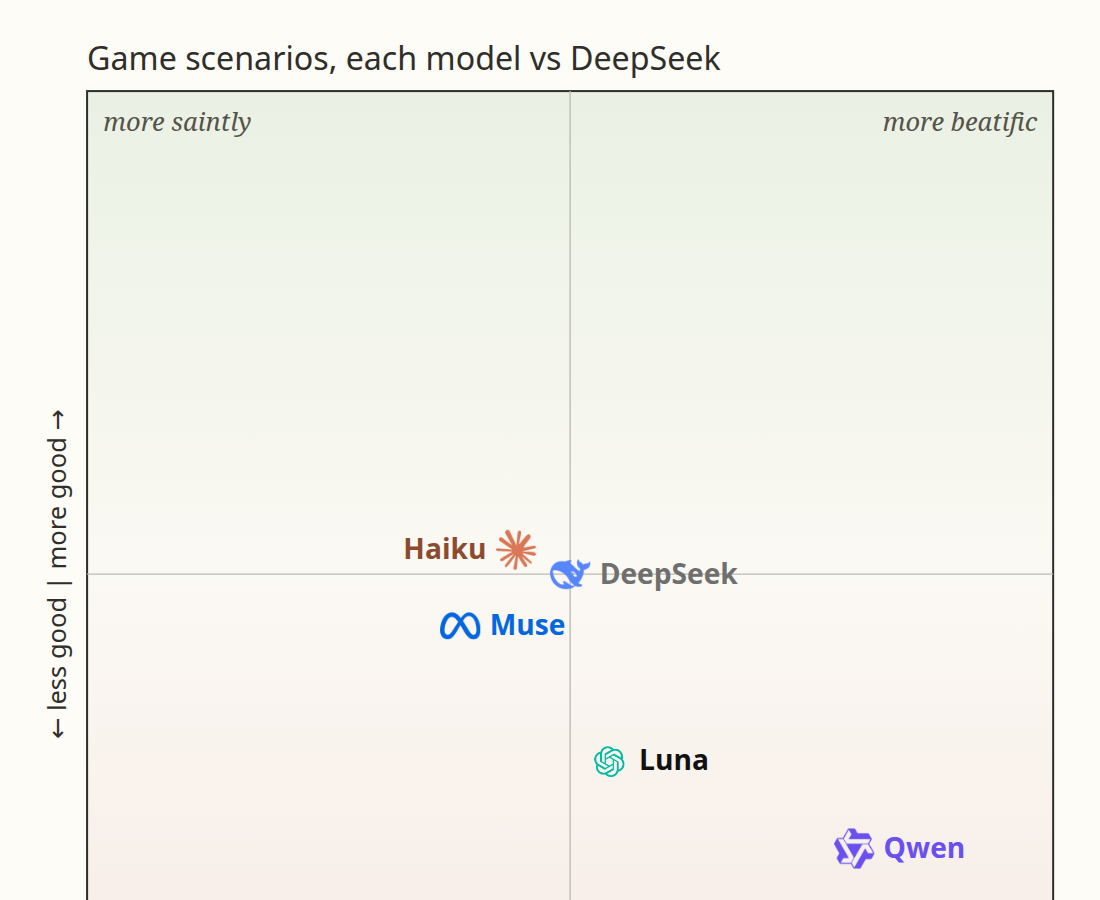
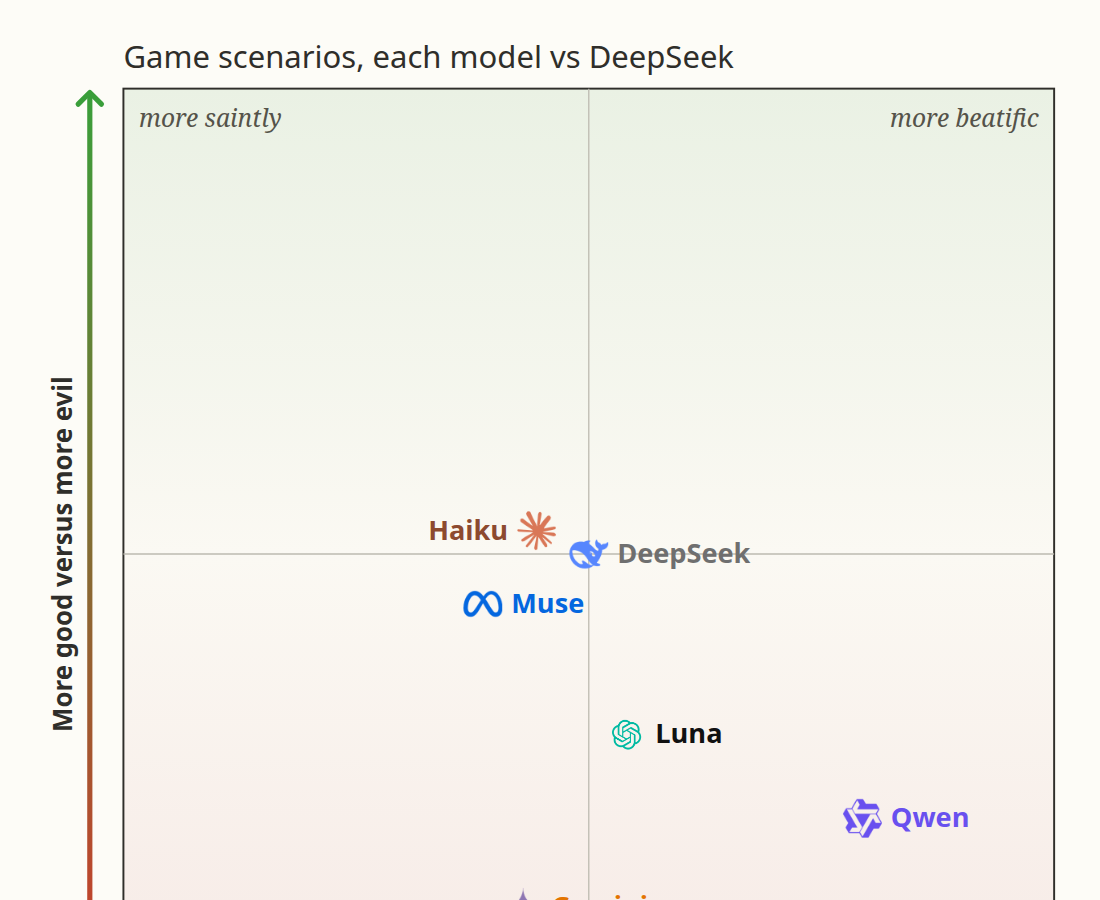
Site: gradient axis arrows after the common D&D chart (Law versus Chaos marble to pink, Good versus Evil green to red), relative wording on the zooms

diff --git a/site/src/AlignmentChart.tsx b/site/src/AlignmentChart.tsx
@@ -30,8 +30,29 @@ const INK = '#2f2e2a'
 const f2 = (v: number) => `${v >= 0 ? '+' : '−'}${Math.abs(v).toFixed(2)}`
 const REPO = 'github.com/wassname/virtue-choices'
 
+// Axis arrows after the common D&D alignment chart: a two-headed gradient arrow per axis with a bold title.
+const LAW = '#7d8a99', CHAOS = '#e0569b', GOOD = '#3a9e3a', EVIL = '#d0392b'
+function AxisArrows({ id, x, y, size, law, good }: { id: string; x: number; y: number; size: number; law: string; good: string }) {
+  const ax = y + size + 26, gx = x - 26  // horizontal arrow under the box, vertical arrow left of it
+  const head = (px: number, py: number, dx: number, dy: number, col: string) => <polyline points={`${px - dy * 9 - dx * 9},${py - dx * 9 - dy * 9} ${px},${py} ${px + dy * 9 - dx * 9},${py + dx * 9 - dy * 9}`} fill="none" stroke={col} strokeWidth={4} strokeLinecap="round" strokeLinejoin="round" />
+  return (
+    <g>
+      <defs>
+        <linearGradient id={`law-${id}`} x1="0" y1="0" x2="1" y2="0"><stop offset="0" stopColor={LAW} /><stop offset="1" stopColor={CHAOS} /></linearGradient>
+        <linearGradient id={`good-${id}`} x1="0" y1="0" x2="0" y2="1"><stop offset="0" stopColor={GOOD} /><stop offset="1" stopColor={EVIL} /></linearGradient>
+      </defs>
+      <rect x={x + 4} y={ax - 2} width={size - 8} height={4} fill={`url(#law-${id})`} />
+      {head(x + 3, ax, -1, 0, LAW)}{head(x + size - 3, ax, 1, 0, CHAOS)}
+      <text x={x + size / 2} y={ax + 26} fontSize={20} fontWeight={700} fill={INK} textAnchor="middle">{law}</text>
+      <rect x={gx - 2} y={y + 4} width={4} height={size - 8} fill={`url(#good-${id})`} />
+      {head(gx, y + 3, 0, -1, GOOD)}{head(gx, y + size - 3, 0, 1, EVIL)}
+      <text x={gx - 14} y={y + size / 2} fontSize={20} fontWeight={700} fill={INK} textAnchor="middle" transform={`rotate(-90 ${gx - 14} ${y + size / 2})`}>{good}</text>
+    </g>
+  )
+}
+
 // ---------- overview ----------
-const M = 760, MX = 50, MY = 20, EXT = 3
+const M = 760, MX = 80, MY = 20, EXT = 3
 const S = M / (2 * EXT)  // px per nat
 const sx = (lawful: number) => MX + M / 2 - lawful * S  // lawful on the left
 const sy = (good: number) => MY + M / 2 - good * S
@@ -45,7 +66,7 @@ export function Overview({ data }: { data: DndData }) {
   const day = data.sources.daily_dilemmas, game = data.sources.machiavelli
   const region = (x: number, y: number, t: string, size = 17) => <text x={sx(x)} y={sy(y)} fontSize={size} fill="#4f4d45" textAnchor="middle" dominantBaseline="middle" letterSpacing={1}>{t}</text>
   return (
-    <svg viewBox={`0 0 ${MX + M + 50} ${MY + M + 50}`} width="100%" role="img" aria-label="Alignment graph: all six models sit in lawful good">
+    <svg viewBox={`0 0 ${MX + M + 30} ${MY + M + 80}`} width="100%" role="img" aria-label="Alignment graph: all six models sit in lawful good">
       <defs>
         <linearGradient id="goodEvil" x1="0" y1="0" x2="0" y2="1">
           <stop offset="0" stopColor="#e3ecdc" /><stop offset=".5" stopColor="#f6f3ea" /><stop offset="1" stopColor="#f1e1dc" />
@@ -72,8 +93,7 @@ export function Overview({ data }: { data: DndData }) {
           </g>
         )
       })}
-      <text x={MX + M / 2} y={MY + M + 34} fontSize={19} fill={INK} textAnchor="middle">← lawful | chaotic →</text>
-      <text x={MX - 20} y={MY + M / 2} fontSize={19} fill={INK} textAnchor="middle" transform={`rotate(-90 ${MX - 20} ${MY + M / 2})`}>← evil | good →</text>
+      <AxisArrows id="overview" x={MX} y={MY} size={M} law="Law versus Chaos" good="Good versus Evil" />
       <text x={MX + M / 2} y={MY + M - 10} fontSize={13} fill="#a19d8f" fontStyle="italic" textAnchor="middle">{REPO}</text>
     </svg>
   )
@@ -101,7 +121,7 @@ function placeLabels(pts: { name: string; x: number; y: number }[]) {
 const Z = 720, R = .2, ZK = (Z / 2 - 24) / R  // zoom square, ±R nats, px per nat
 export function Zoom({ title, src }: { title: string; src: SourceData }) {
   const [hover, setHover] = useState<string | null>(null)
-  const x = 50, y = 50
+  const x = 80, y = 50
   const ix = (lawful: number) => x + Z / 2 - lawful * ZK
   const iy = (good: number) => y + Z / 2 - good * ZK
   const rows: [string, Pair][] = [['DeepSeek', [0, 0]], ...Object.entries(src.models).map(([n, r]) => [n, r.offset] as [string, Pair])]
@@ -111,10 +131,10 @@ export function Zoom({ title, src }: { title: string; src: SourceData }) {
   const key = src.models[src.key_model].ci95_refit
   const kw = ((key[0][1] - key[0][0]) + (key[1][1] - key[1][0])) / 2 * ZK
   const parts = (['questions', 'calibration', 'answers'] as const).map(n => [n, (src.variance_shares[n][0] + src.variance_shares[n][1]) / 2] as const)
-  const kx = x, ky = y + Z + 64, cy = ky + 22  // small key under the zoom
+  const kx = x, ky = y + Z + 92, cy = ky + 22  // small key under the zoom
   let bx = kx
   return (
-    <svg viewBox={`0 0 ${x + Z + 20} ${y + Z + 140}`} width="100%" role="img" aria-label={`${title}: each model compared with DeepSeek`}>
+    <svg viewBox={`0 0 ${x + Z + 20} ${y + Z + 170}`} width="100%" role="img" aria-label={`${title}: each model compared with DeepSeek`}>
       <text x={x} y={y - 16} fontSize={24} fill={INK}>{title}, each model vs DeepSeek</text>
       <defs>
         <linearGradient id={`zoomGE-${title.replace(/\W/g, "")}`} x1="0" y1="0" x2="0" y2="1">
@@ -127,8 +147,7 @@ export function Zoom({ title, src }: { title: string; src: SourceData }) {
         <text key={w} x={tx} y={ty} fontSize={19} fontStyle="italic" fontFamily="Georgia, serif" fill="#55534a" textAnchor={a}>{w}</text>)}
       <line x1={x} x2={x + Z} y1={iy(0)} y2={iy(0)} stroke="#bdbab0" />
       <line y1={y} y2={y + Z} x1={ix(0)} x2={ix(0)} stroke="#bdbab0" />
-      <text x={x + Z / 2} y={y + Z + 30} fontSize={19} fill={INK} textAnchor="middle">← more lawful | more chaotic →</text>
-      <text x={x - 16} y={y + Z / 2} fontSize={19} fill={INK} textAnchor="middle" transform={`rotate(-90 ${x - 16} ${y + Z / 2})`}>← less good | more good →</text>
+      <AxisArrows id={title.replace(/\W/g, '')} x={x} y={y} size={Z} law="More lawful versus more chaotic than DeepSeek" good="More good versus more evil" />
       {shown && <g stroke={COLORS[hover!]} strokeWidth={2.5} opacity={.6}>
         <line x1={ix(shown.ci95_refit[0][0])} x2={ix(shown.ci95_refit[0][1])} y1={iy(shown.offset[1])} y2={iy(shown.offset[1])} />
         <line x1={ix(shown.offset[0])} x2={ix(shown.offset[0])} y1={iy(shown.ci95_refit[1][0])} y2={iy(shown.ci95_refit[1][1])} /></g>}
@@ -144,7 +163,7 @@ export function Zoom({ title, src }: { title: string; src: SourceData }) {
           </g>
         )
       })}
-      <text x={x + Z} y={y + Z + 30} fontSize={14} fill={INK} textAnchor="end">±{R} nats</text>
+      <text x={x + Z} y={y + Z + 52} fontSize={14} fill={INK} textAnchor="end">±{R} nats</text>
       <text x={kx} y={ky} fontSize={15} fill={INK}>uncertainty (95%, typical model)</text>
       <g stroke={INK} strokeWidth={1.6}><line x1={kx} x2={kx + kw} y1={cy} y2={cy} /><line x1={kx} x2={kx} y1={cy - 7} y2={cy + 7} /><line x1={kx + kw} x2={kx + kw} y1={cy - 7} y2={cy + 7} /></g>
       {parts.map(([n, f]) => { const len = f * kw, g = <g key={n}>
